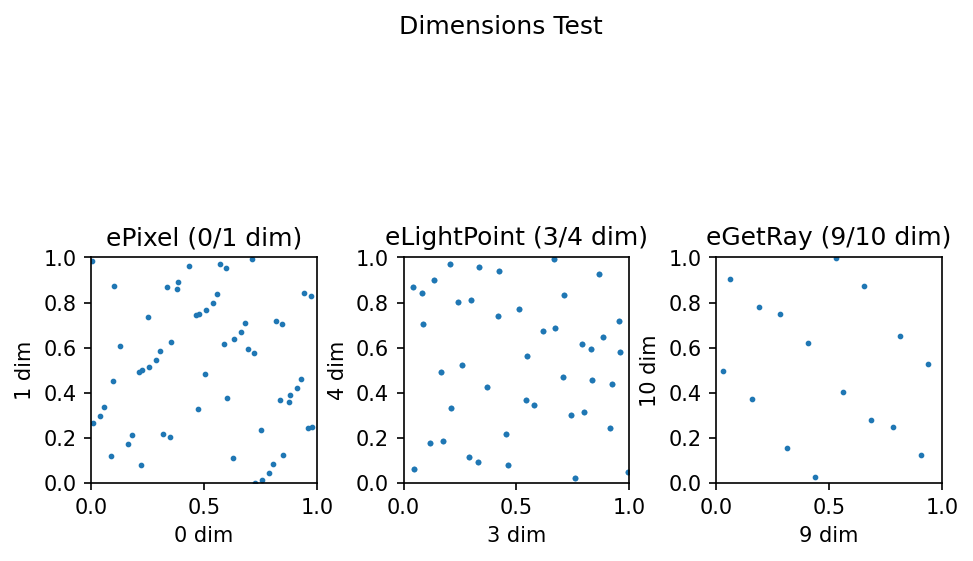
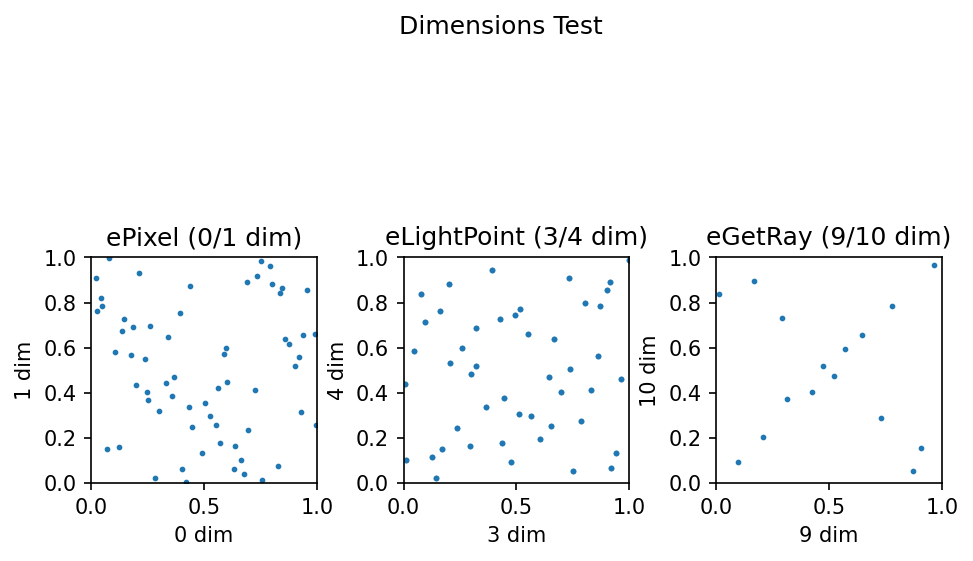
Improved Owen scrambling

diff --git a/WorkingProject/Random/Sobol.h b/WorkingProject/Random/Sobol.h
@@ -1,50 +1,36 @@
+#pragma once
+
+#include "Scrambling.h"
 
 static constexpr int NumSobolDimensions = 1024;
 static constexpr int SobolMatrixSize = 52;
 extern const uint32_t SobolMatrices32[NumSobolDimensions *
                                       SobolMatrixSize];
 
-static inline float UintToFloat(uint32_t value) {
+static float UintToFloat(uint32_t value) {
     return std::min(1 - 1e-10f, value * 0x1p-32f);
 }
 
-inline uint32_t OrdinarySobol(uint32_t index, uint32_t dimension,
-                              uint32_t scramble = 0) {
-    uint32_t value = scramble;
+
+static float SobolRand(uint32_t index, uint32_t dimension,
+                       uint32_t scramble, int scrambling_type) {
+
+    uint32_t value = 0;
     for (uint32_t i = dimension * SobolMatrixSize; index != 0; index >>= 1, ++i) {
         if (index & 1) {
             value ^= SobolMatrices32[i];
         }
     }
-    return value;
-}
 
-
-inline float SobolRand(uint32_t index, uint32_t dimension,
-                       uint32_t scramble = 0) {
-    return UintToFloat(OrdinarySobol(index, dimension, scramble));
-}
-
-inline float SobolOwenScrambling(uint32_t index, uint32_t dimension,
-                            uint32_t scramble) {
-
-    uint32_t value = OrdinarySobol(index, dimension, scramble);
-
-    for (size_t i = 0; i < 16; ++i) {
-        uint32_t mask = (1 << (31 - i)) - 1;
-        uint32_t hash;
-        {
-            hash = value & (!mask);
-            uint32_t seed = scramble + i;
-            std::vector<uint32_t> perms = {0x29aaaaa7, 0x736caf6f, 0x54aad35b, 0x2ab35aaa, 0x161fe91a, 0xf91a7b2c, 0x19460471, 0xad16072f};
-            for (size_t j = 0; j < 10; ++j) {
-                hash = hash * perms[j % perms.size()];
-                hash ^= hash >> 16;
-                hash ^= seed;
-            }
-        }
-
-        value ^= hash & mask;
+    switch (scrambling_type) {
+        case 0:
+            value ^= scramble;
+            break;
+        case 1:
+            value = OwenScrambling(value, scramble);
+            break;
+        default:
+            break;
     }
 
     return UintToFloat(value);

diff --git a/WorkingProject/Random/ourRandom.hpp b/WorkingProject/Random/ourRandom.hpp
@@ -4,8 +4,8 @@
 #include <fstream>
 #include "glm/glm.hpp"
 #include "../Constants.h"
-#include "Halton.h"
 #include "Sobol.h"
+#include "Halton.h"
 
 using namespace glm;
 
@@ -45,7 +45,7 @@ static const std::vector<uint32_t> RandomDigitScrambling = {432184344, 312302016
                                                             1859591936};
 
 template<SampleDimension Dim>
-inline float random(SamplerState &currentState) {
+float random(SamplerState &currentState) {
 
     const uint32_t dimension = uint32_t(Dim) + currentState.depth * uint32_t(SampleDimension::eNUM_DIMENSIONS);
     static const uint32_t primeNumbers[32] = {2, 3, 5, 7, 11, 13, 17, 19, 23, 29, 31, 37, 41, 43, 47, 53, 59, 61,
@@ -56,18 +56,10 @@ inline float random(SamplerState &currentState) {
     if (random_generator_type == Halton) {
         result = HaltonRand(currentState.seed * MAX_BOUNCE + currentState.sampleIdx, base);
     } else if (random_generator_type == Sobol) {
-        if (scrambling_type == RandomDigit) {
-            result = SobolRand(currentState.seed * MAX_BOUNCE + currentState.sampleIdx, base,
-                               RandomDigitScrambling[(uint32_t) Dim]);
-        } else if (scrambling_type == Owen) {
-            result = SobolOwenScrambling(currentState.seed * MAX_BOUNCE + currentState.sampleIdx, base,
-                                         RandomDigitScrambling[(uint32_t) Dim]);
-        } else {
-            result = SobolRand(currentState.seed * MAX_BOUNCE + currentState.sampleIdx, base);
-        }
+        result = SobolRand(currentState.seed * MAX_BOUNCE + currentState.sampleIdx, base,
+                           RandomDigitScrambling[uint32_t(Dim)], scrambling_type);
     }
 
-    uint32_t Helper = uint32_t(Dim);
     if (currentState.seed == SEED + CHECK_PIXEL_X * IMAGE_WIDTH + CHECK_PIXEL_Y) {
         switch (Dim) {
             case SampleDimension::ePixelX:

diff --git a/WorkingProject/Random/Scrambling.h b/WorkingProject/Random/Scrambling.h
@@ -1,0 +1,48 @@
+#pragma once
+
+namespace {
+    inline uint32_t ReverseBits(uint32_t value) {
+
+        value = (value << 16) | (value >> 16);
+        value = ((value & 0x00ff00ff) << 8) | ((value & 0xff00ff00) >> 8);
+        value = ((value & 0x0f0f0f0f) << 4) | ((value & 0xf0f0f0f0) >> 4);
+        value = ((value & 0x33333333) << 2) | ((value & 0xcccccccc) >> 2);
+        value = ((value & 0x55555555) << 1) | ((value & 0xaaaaaaaa) >> 1);
+        return value;
+    }
+
+    inline uint32_t lk_hash(uint32_t value, uint32_t seed) {
+
+        value += seed;
+        value ^= value * 0x6c50b47c;
+        value ^= value * 0xb82f1e52;
+        value ^= value * 0xc7afe638;
+        value ^= value * 0x8d22f6e6;
+
+        return value;
+    }
+
+    inline uint32_t lk_hash_v1(uint32_t value, uint32_t seed) {
+
+        value += seed;
+        value ^= value * 0x6c50b47c;
+        value += value << 1;
+        value ^= value * 0xb82f1e52;
+        value += value << 1;
+        value ^= value * 0xc7afe638;
+        value += value << 1;
+        value ^= value * 0x8d22f6e6;
+        value += value << 1;
+
+        return value;
+    }
+}
+
+inline uint32_t OwenScrambling(uint32_t value, uint32_t scramble) {
+
+    value = ReverseBits(value);
+    value = lk_hash(value, scramble);
+    value = ReverseBits(value);
+
+    return value;
+}

diff --git a/WorkingProject/Random/Halton.h b/WorkingProject/Random/Halton.h
@@ -1,12 +1,15 @@
+#pragma once
+
+#include "Scrambling.h"
 
 inline float HaltonRand(uint32_t value, const uint32_t base) {
-    const float invBase = (float)1 / (float)base;
-    uint64_t reversedDigits = 0;
+    const float invBase = (float) 1 / (float) base;
+    uint32_t reversedDigits = 0;
     float invBaseN = 1;
 
     while (value) {
-        uint64_t next  = value / base;
-        uint64_t digit = value - next * base;
+        uint32_t next = value / base;
+        uint32_t digit = value - next * base;
         reversedDigits = reversedDigits * base + digit;
         invBaseN *= invBase;
         value = next;

diff --git a/WorkingProject/Constants.h b/WorkingProject/Constants.h
@@ -2,8 +2,8 @@
 
 const float EPSILON = 1e-10f;
 
-const int MAX_PATHS = 256; // 32
-const int MAX_BOUNCE = 8; // 4
+const int MAX_PATHS = 8; // 32
+const int MAX_BOUNCE = 4; // 4
 
 const int IMAGE_WIDTH = 320;
 const int IMAGE_HEIGHT = 240;
@@ -20,7 +20,7 @@ enum random_generator {
 };
 const random_generator random_generator_type = Sobol;
 
-enum scrambling {
+enum scrambling : int {
     RandomDigit, Owen, None
 };
 const scrambling scrambling_type = Owen;

diff --git a/MakeScatterForPixel/main.py b/MakeScatterForPixel/main.py
@@ -3,8 +3,8 @@ import matplotlib.pyplot as plt
 
 
 name = "Sobol"
-max_path = 256
-max_bounce = 8
+max_path = 8
+max_bounce = 4
 scrambling_type = "Owen"
 
 
